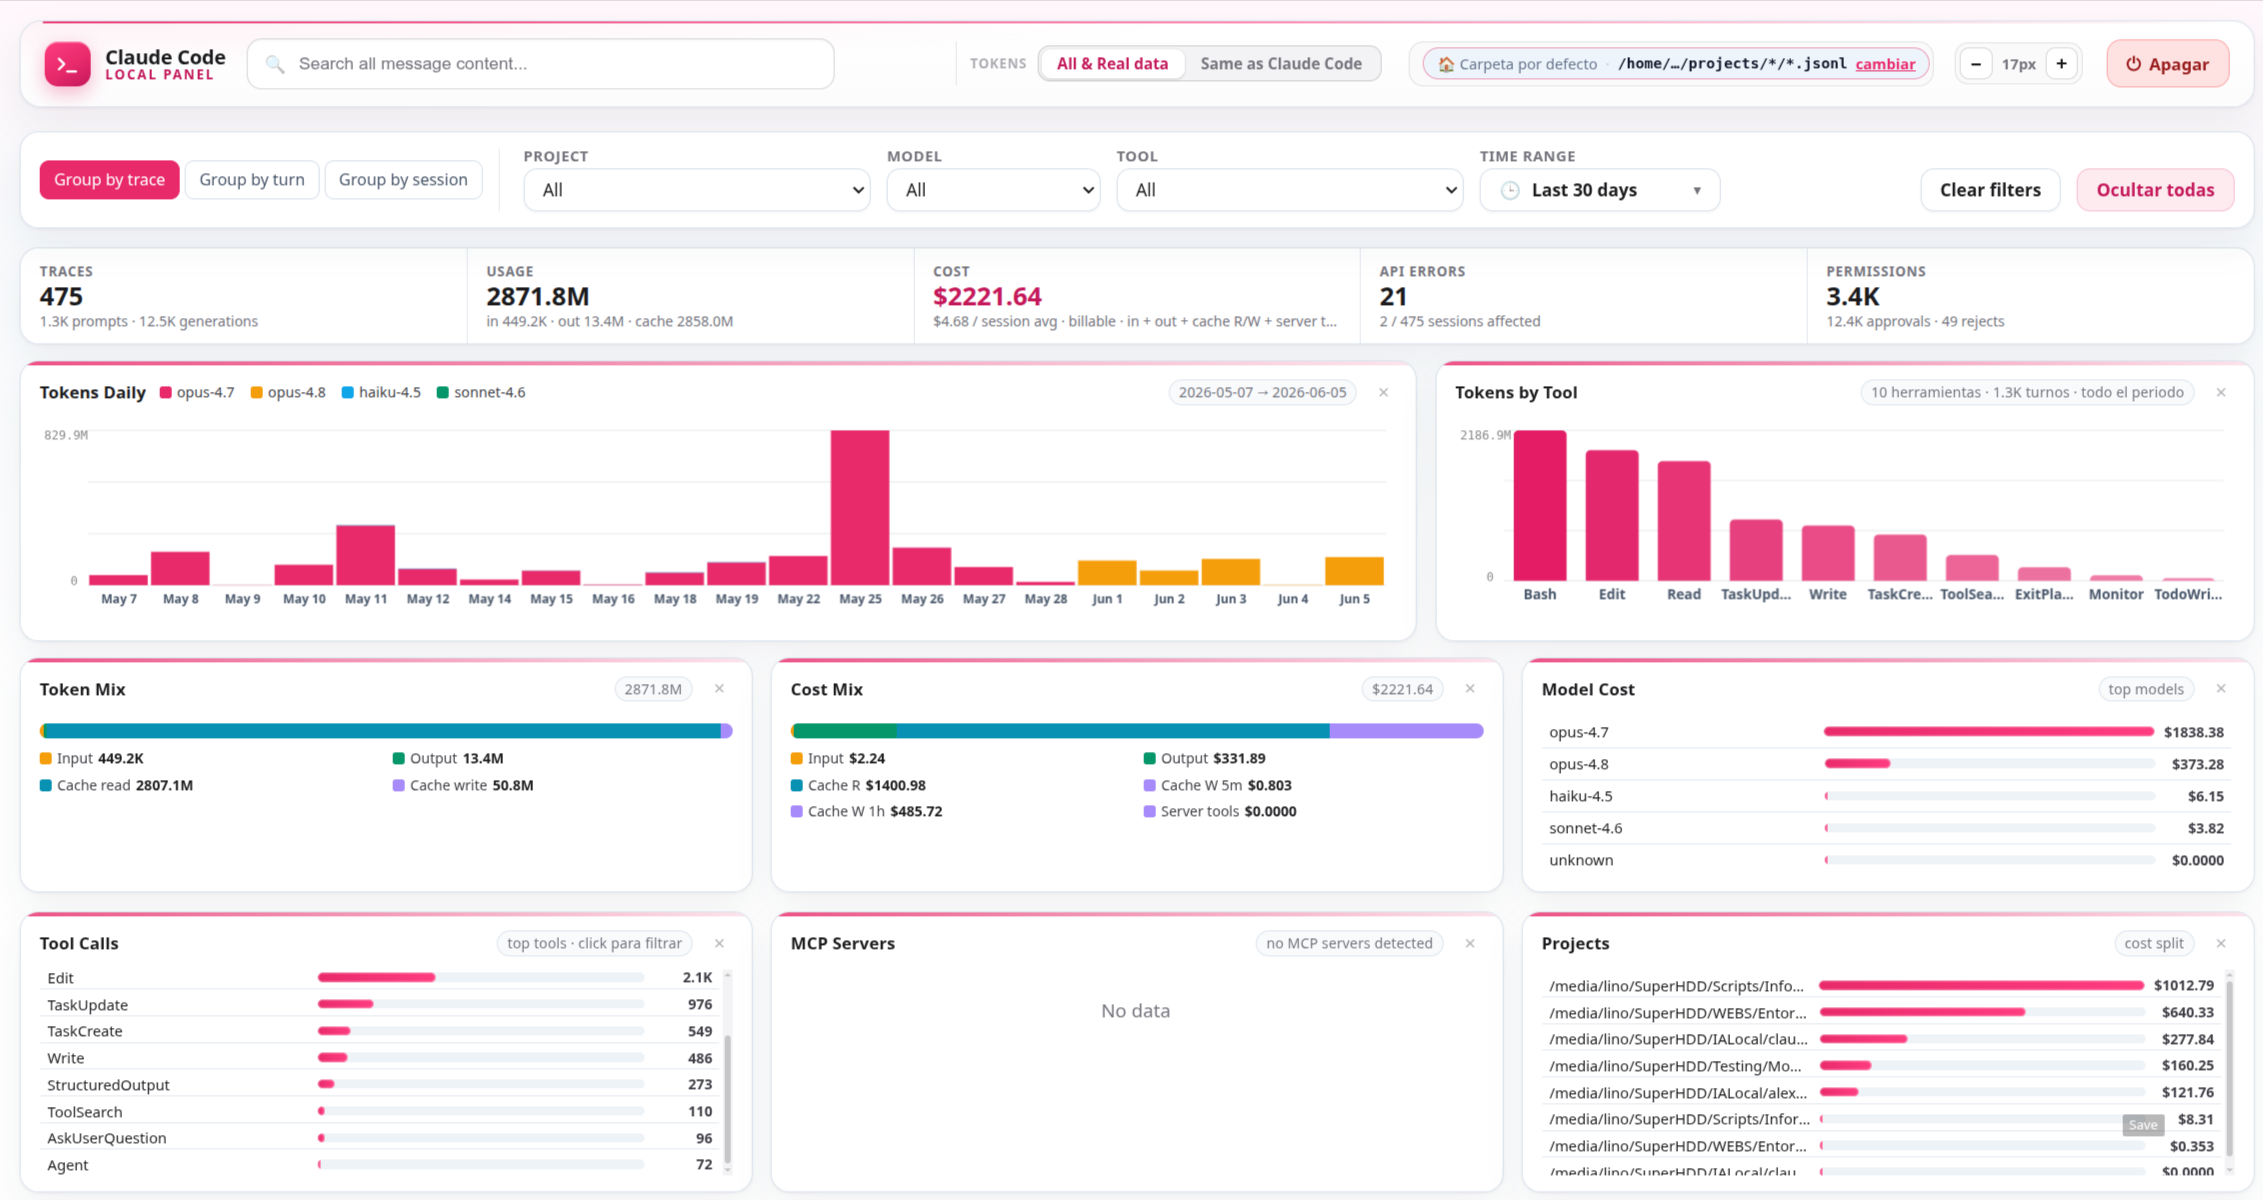
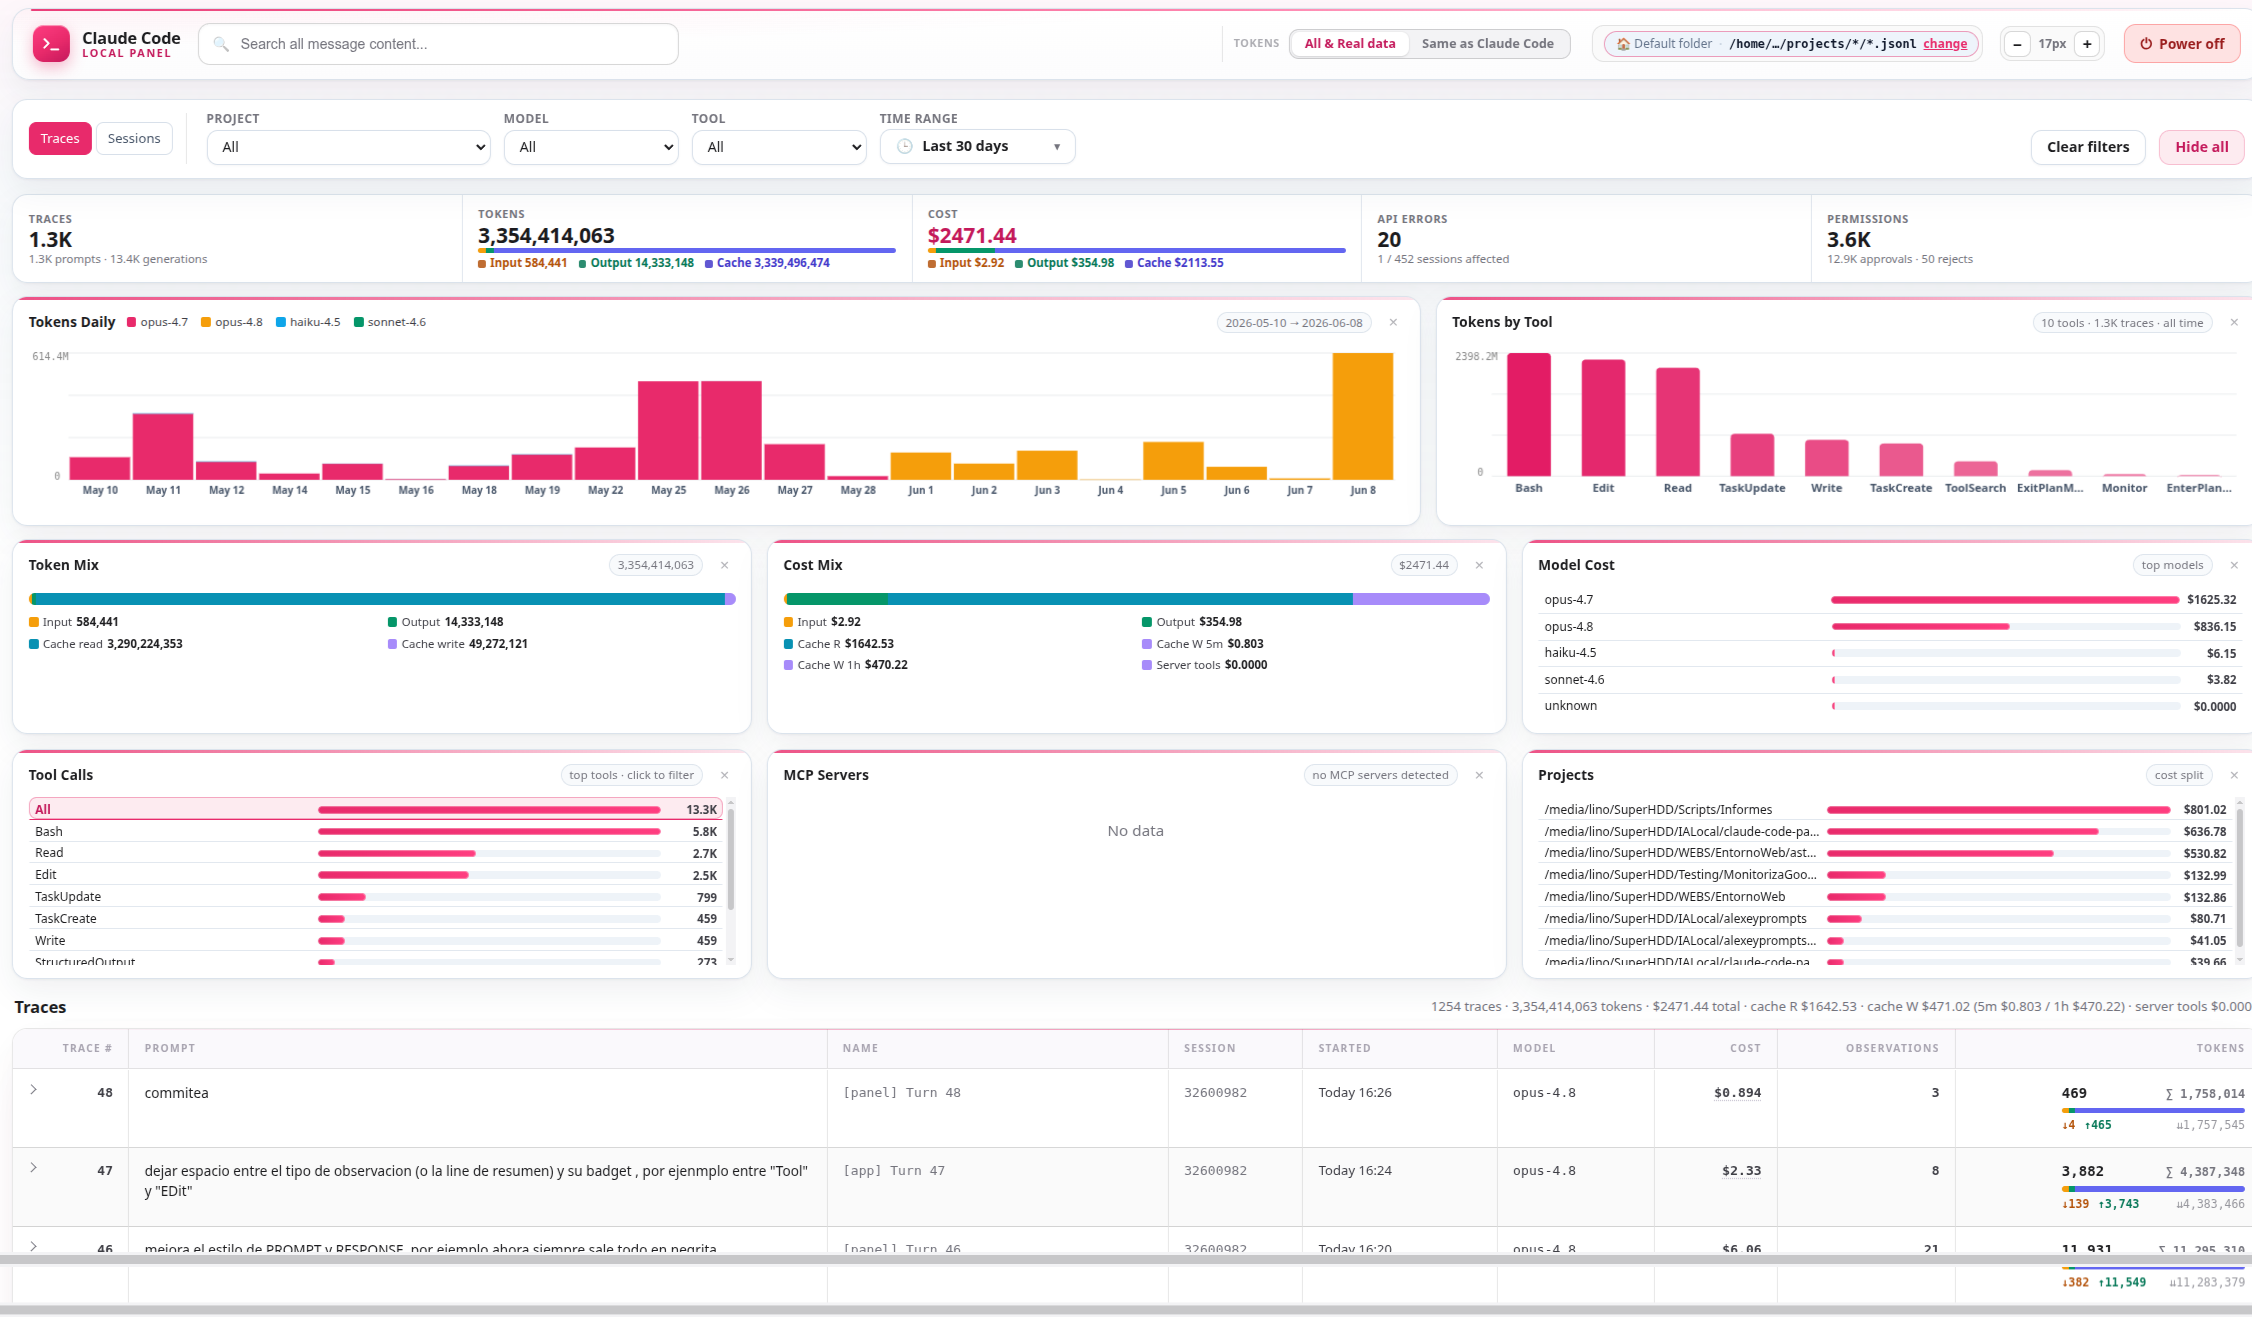
Muestra el prompt del usuario literal en la burbuja: conserva saltos de línea y sangrías con monospace y scroll horizontal, sin interpretar markdown

diff --git a/app/index.html b/app/index.html
@@ -4047,6 +4047,19 @@ html.chat-snap #chat-col .chat-tools.standalone { scroll-snap-align: start; }
 .msg-bubble.you .msg-body pre { background: #0f172a; color: #e2e8f0; }
 .msg-bubble.you .msg-body code { color: var(--accent-dim); }
 
+/* Prompt literal: respeta saltos de línea y sangrías sin interpretar markdown. */
+/* El prompt se muestra tal cual lo escribió el usuario (incluidos dibujos
+   ASCII). Como la burbuja es estrecha, NO envolvemos las líneas: usamos
+   monospace y scroll horizontal para que la alineación del dibujo se conserve,
+   igual que en la fila expandida de la tabla (que ocupa todo el ancho). */
+.term-verbatim {
+    white-space: pre;
+    overflow-x: auto;
+    font-family: 'SF Mono', Consolas, 'Courier New', monospace;
+    font-size: 12.5px;
+    line-height: 1.5;
+}
+
 /* Plegado "Read more" */
 .msg-body.clampable { position: relative; }
 .msg-body.clampable.clamped {
@@ -7798,6 +7811,18 @@ function textFromBlocks(blocks) {
     }).join(' ').replace(/\s+/g, ' ').trim();
 }
 
+// Igual que textFromBlocks pero SIN colapsar los espacios en blanco: conserva
+// saltos de línea y sangrías para mostrar el prompt tal cual lo escribió el
+// usuario (p. ej. dibujos ASCII). textFromBlocks aplana todo a una sola línea,
+// lo cual sirve para títulos/resúmenes pero destroza el formato del cuerpo.
+function rawTextFromBlocks(blocks) {
+    return blocks.map(b => {
+        if (b.type === 'text') return b.text || '';
+        if (b.type === 'tool_result') return typeof b.content === 'string' ? b.content : '';
+        return '';
+    }).join('\n').replace(/\s+$/, '');
+}
+
 function turnCost(tokens, model) {
     // tokens uses the in-transcript shape { input, output, cacheRead, cacheCreate5m, cacheCreate1h, webSearch, webFetch }
     return costBreakdown({
@@ -9500,6 +9525,13 @@ function renderTranscript() {
         return `<div class="term-md">${marked.parse(text)}</div>`;
     }
 
+    // El prompt se muestra literal (tal como lo escribió el usuario): sin
+    // interpretar markdown, conservando saltos de línea, sangrías y caracteres.
+    function renderVerbatim(text) {
+        if (ANSI_RE.test(text)) return `<div class="term-verbatim">${renderAnsi(text)}</div>`;
+        return `<div class="term-verbatim">${escapeHtml(text)}</div>`;
+    }
+
     function renderToolResult(block) {
         const text = typeof block.content === 'string' ? block.content :
             Array.isArray(block.content) ? block.content.map(c => c.text || '').join('\n') :
@@ -9601,7 +9633,8 @@ function renderTranscript() {
             if (cl.category === 'user') {
                 const txt = textFromBlocks(cl.blocks);
                 if (!txt.trim()) continue;
-                parts.push(chatBubble({ side: 'right', variant: 'you', title: chatSummary(txt), ts: msg.ts, turnIdx, msgIdx: mi, inner: chatClampWrap(renderMd(txt)) }));
+                const rawTxt = rawTextFromBlocks(cl.blocks);
+                parts.push(chatBubble({ side: 'right', variant: 'you', title: chatSummary(txt), ts: msg.ts, turnIdx, msgIdx: mi, inner: chatClampWrap(renderVerbatim(rawTxt)) }));
                 continue;
             }
 
